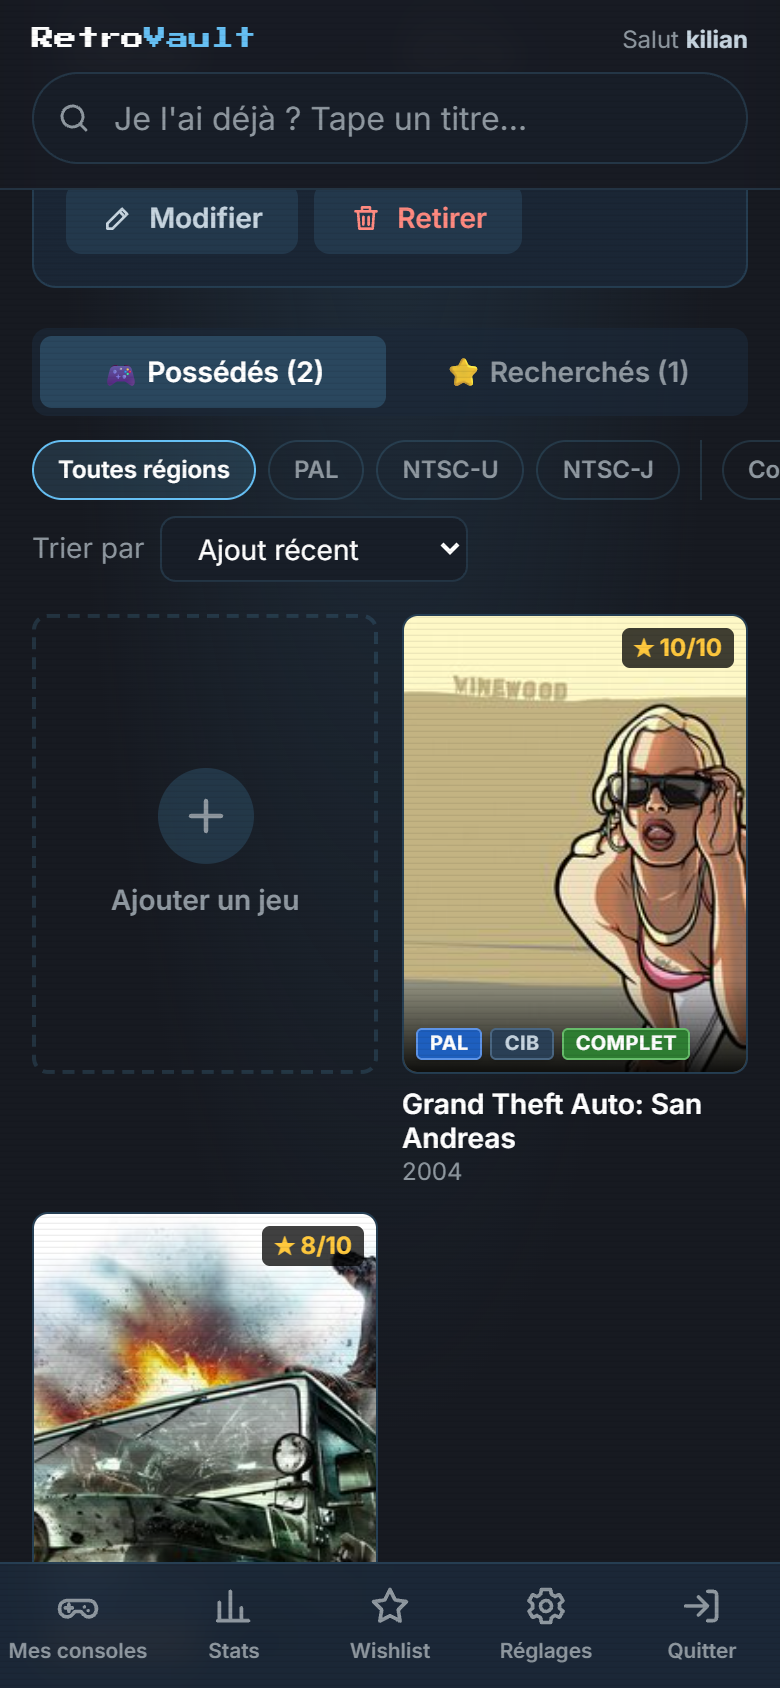
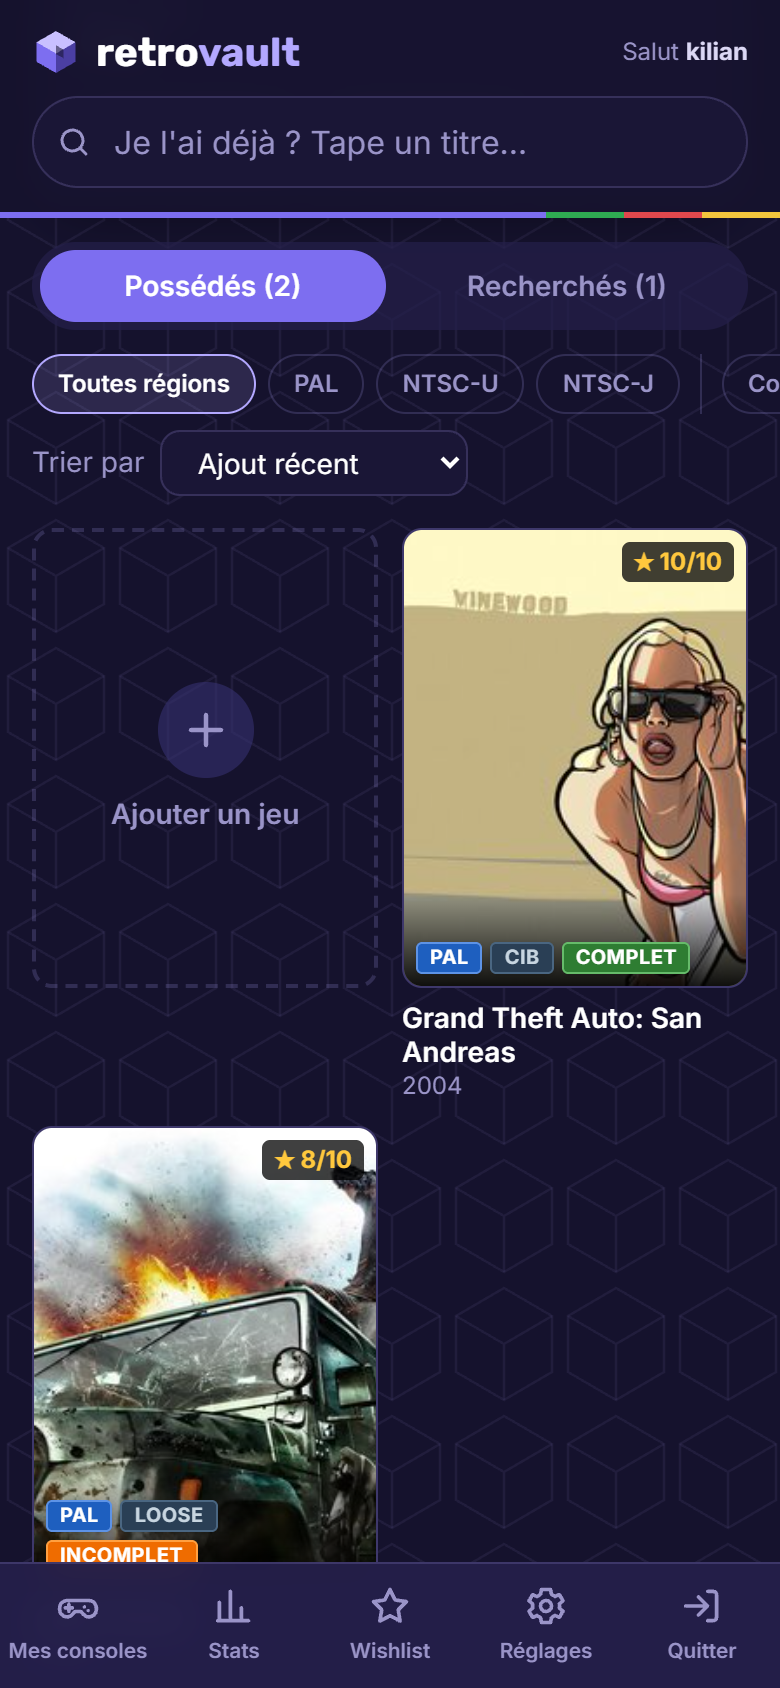
Mise en ligne sur GitHub Pages, README et captures à jour

diff --git a/vite.config.js b/vite.config.js
@@ -2,6 +2,8 @@ import { defineConfig } from 'vite'
 import react from '@vitejs/plugin-react'
 import tailwindcss from '@tailwindcss/vite'
 
+// Sur GitHub Pages le site est servi depuis /retrovault/ (variable passée par le workflow)
 export default defineConfig({
+  base: process.env.BASE_PATH ?? '/',
   plugins: [react(), tailwindcss()],
 })

diff --git a/src/main.jsx b/src/main.jsx
@@ -9,7 +9,7 @@ applyTheme(useSettings.getState().theme)
 
 createRoot(document.getElementById('root')).render(
   <StrictMode>
-    <BrowserRouter>
+    <BrowserRouter basename={import.meta.env.BASE_URL}>
       <App />
     </BrowserRouter>
   </StrictMode>,

diff --git a/README.md b/README.md
@@ -3,7 +3,13 @@
 Application web **React** pour gérer sa collection de consoles et de jeux vidéo, surtout rétro.
 On se connecte, on ajoute ses consoles (avec le modèle exact : PS2 Fat ou Slim, Game Boy DMG ou Pocket…), puis pour chaque console on cherche ses jeux dans la base **RAWG** et on note l'état de son exemplaire : région, en boîte ou loose, complet ou non, prix payé, note perso…
 
+**Version en ligne : https://vador634.github.io/retrovault/**
+
 Pensée **mobile d'abord** : une recherche « Je l'ai déjà ? » toujours visible permet de vérifier en magasin d'occasion qu'on n'achète pas un doublon.
+
+<p align="center">
+  <img src="Documentation/captures/00-themes-connexion.png" width="700" alt="Les 3 thèmes : GameCube, Xbox, PlayStation" />
+</p>
 
 <p align="center">
   <img src="Documentation/captures/04-mes-consoles.png" width="230" alt="Mes consoles" />
@@ -16,15 +22,17 @@ Pensée **mobile d'abord** : une recherche « Je l'ai déjà ? » toujours visib
 ## Fonctionnalités
 
 **Connexion**
-- Inscription / connexion par pseudo et mot de passe, écran de démarrage façon BIOS rétro.
+- Inscription / connexion par pseudo et mot de passe, choix du thème dès cet écran.
 - Toutes les pages sont protégées, bouton de déconnexion dans la barre de navigation.
 - Plusieurs comptes possibles sur le même appareil, chacun avec sa collection.
 
 **Mes consoles**
 - Grille de mes consoles avec une carte « + Ajouter une console ».
-- Ajout en 3 étapes : choix dans un catalogue de **25 consoles** → **modèle** → état, boîte, couleur/édition, commentaire.
+- Ajout en 3 étapes : choix dans un catalogue de **28 consoles** (de l'Atari 2600 à la PS4, la Xbox One, la Wii U et la Switch) → **modèle** → état, boîte, couleur/édition, commentaire.
 - Plusieurs exemplaires de la même console possibles (ex. une PS2 Fat et une Slim).
-- Chaque carte affiche l'image, le nom, le modèle et le nombre de jeux.
+- Chaque carte affiche la photo de la console, le nom, le modèle et le nombre de jeux.
+- **Ordre libre** : on range ses consoles comme on veut en les faisant glisser (souris, ou appui long au doigt). L'ordre est enregistré.
+- **Tris** : mon ordre, par marque (avec un titre par fabricant), plus anciennes / plus récentes, nombre de jeux, nom. Le tri choisi est mémorisé.
 
 **Jeux d'une console** (une seule page dynamique `/console/:id`)
 - En-tête avec le modèle, les caractéristiques techniques et le nombre de jeux.
@@ -38,7 +46,11 @@ Pensée **mobile d'abord** : une recherche « Je l'ai déjà ? » toujours visib
 - **« Je l'ai déjà ? »** : recherche instantanée dans ma collection, sans réseau, qui répond console, région, format et état, ou « ⭐ Dans ta wishlist ».
 - **Wishlist** : un jeu peut être « Recherché » au lieu de « Possédé ». Bouton « Je l'ai trouvé ! » pour le passer dans la collection.
 - **Statistiques** (Recharts) : jeux par console, répartition CIB / Loose / Blister, % de jeux complets, répartition par région, total dépensé, top des jeux les mieux notés.
-- **Réglages** : thème sombre / clair, effet CRT désactivable, note sur 5 ou 10.
+- **3 thèmes « console »**, chacun avec son propre logo, au choix dans les réglages ou dès l'écran de connexion :
+  - **GameCube** : logo en cube, indigo brillant, tout est arrondi, petits cubes en fond, bouton principal vert comme le bouton A ;
+  - **Xbox** : logo en sphère verte lumineuse, noir et vert lime, boutons à coins coupés, équerres vertes sur les panneaux, quadrillage en fond ;
+  - **PlayStation** : logo aux 4 symboles, gris clair comme le plastique de la console, boutons en relief qui s'enfoncent, rainures en fond, trait aux 4 couleurs sous les titres.
+- **Réglages** : thème, note sur 5 ou 10.
 - **Sauvegarde** : export et import de la collection en JSON.
 
 ## Stack technique
@@ -47,10 +59,11 @@ Pensée **mobile d'abord** : une recherche « Je l'ai déjà ? » toujours visib
 |---|---|
 | Interface | React 19 + Vite |
 | Navigation | React Router |
-| Style | Tailwind CSS 4, polices Press Start 2P (titres) et Inter (texte) |
+| Style | Tailwind CSS 4 + variables CSS pour les 3 thèmes ; Inter (texte), Rubik / Michroma / Saira (titres selon le thème) |
 | Animations | Framer Motion |
 | État + persistance | Zustand (middleware `persist` → localStorage) |
 | Graphiques | Recharts |
+| Glisser-déposer | dnd-kit (grille triable, souris + tactile + clavier) |
 | Données des jeux | [API RAWG](https://rawg.io/apidocs) |
 
 Pas de serveur : l'application est entièrement côté navigateur. Les comptes, la collection et les réglages sont enregistrés dans le `localStorage` de l'appareil.
@@ -84,9 +97,11 @@ Pas de serveur : l'application est entièrement côté navigateur. Les comptes, 
 npm run build     # génère le dossier dist/
 npm run preview   # sert dist/ sur http://localhost:4173
 ```
-Le dossier `dist/` est un site statique : il peut être déposé tel quel sur Netlify, GitHub Pages, Vercel…
+Le dossier `dist/` est un site statique.
 
-> Le mot de passe est chiffré avec l'API Web Crypto du navigateur, qui n'est disponible qu'en **https** ou sur **localhost**. Pour utiliser l'appli sur téléphone, le plus simple est donc de la déployer sur un hébergeur statique en https (Netlify par exemple).
+**Mise en ligne (GitHub Pages)** : le workflow `.github/workflows/deploy.yml` lance les tests, construit le site et le publie à chaque push sur `main`. La clé RAWG est lue depuis le secret `RAWG_KEY` du dépôt (*Settings → Secrets and variables → Actions*), elle n'est jamais dans le code.
+
+> Le mot de passe est chiffré avec l'API Web Crypto du navigateur, qui n'est disponible qu'en **https** ou sur **localhost**. Sur téléphone, il faut donc passer par la version en ligne (https) et pas par l'adresse IP du PC.
 
 **Tests** de la logique métier (badge complet, recherche sans accents, notes) :
 ```bash
@@ -101,8 +116,8 @@ npm test
 src/
 ├── main.jsx              Point d'entrée (thème appliqué avant le premier rendu)
 ├── App.jsx               Routes + protection des pages (RequireAuth)
-├── index.css             Thèmes sombre/clair (variables CSS), composants de base, effet CRT
-├── data/consoles.json    Catalogue des 25 consoles : modèles, specs, ID de plateforme RAWG
+├── index.css             Les 3 thèmes (GameCube, Xbox, PlayStation) en variables CSS + composants de base
+├── data/consoles.json    Catalogue des 28 consoles : modèles, specs, ID de plateforme RAWG
 ├── lib/
 │   ├── rawg.js           Appels à l'API RAWG + mise en cache
 │   ├── cache.js          Cache localStorage avec date d'expiration
@@ -112,10 +127,13 @@ src/
 ├── store/
 │   ├── auth.js           Comptes et utilisateur connecté
 │   ├── collection.js     Consoles et jeux de chaque compte (ajouter / modifier / supprimer)
-│   ├── settings.js       Thème, effet CRT, échelle de note
+│   ├── settings.js       Thème, échelle de note
 │   └── toast.js          Notifications
 ├── components/           Modal, formulaires, cartes, badges, recherche rapide…
 └── pages/                Login, Consoles, ConsoleGames, Stats, Wishlist, Settings, NotFound
+
+public/consoles/          Photos des 28 consoles (.webp) + credits.json (source et licence de chaque photo)
+.github/workflows/        Mise en ligne automatique sur GitHub Pages
 ```
 
 Le parcours d'un ajout : la page `ConsoleGames` ouvre `SearchGameModal` → `rawg.js` interroge `/games?platforms=15&search=…` → on choisit un résultat → `GameForm` → `ajouterJeu()` dans le store `collection` → Zustand enregistre dans le localStorage et toutes les pages se mettent à jour.
@@ -126,6 +144,7 @@ Le parcours d'un ajout : la page `ConsoleGames` ouvre `SearchGameModal` → `raw
 
 - Un **jeu** est rattaché à la console du **catalogue** (`consoleId: 'ps2'`) et pas à un exemplaire précis : si on a deux PS2, les jeux sont partagés entre les deux.
 - Retirer le dernier exemplaire d'une console retire aussi ses jeux (après confirmation).
+- L'ordre choisi à la main est simplement l'ordre du tableau `consoles` : glisser une carte réécrit ce tableau (`reordonnerConsoles()`). Les autres tris ne le modifient pas, ils trient une copie à l'affichage.
 - Les notes sont toujours stockées **sur 10** ; l'affichage sur 5 divise simplement par 2.
 - On ne garde de RAWG que ce qui sert à l'affichage de la grille (titre, image, date, genres). La fiche complète est rechargée à l'ouverture de la pop-up, avec un cache de 7 jours.
 
@@ -133,15 +152,17 @@ Le parcours d'un ajout : la page `ConsoleGames` ouvre `SearchGameModal` → `raw
 |---|---|
 | `retrovault-auth` | comptes (pseudo, sel, hash) + utilisateur connecté |
 | `retrovault-collection` | consoles et jeux, rangés par pseudo |
-| `retrovault-reglages` | thème, effet CRT, échelle de note |
+| `retrovault-reglages` | thème, échelle de note, tri de la page Mes consoles |
 | `rv-cache:*` | réponses RAWG mises en cache (genres, fiches de jeux) |
 
 ## Choix techniques
 
 - **RAWG plutôt qu'IGDB** : IGDB demande un échange de jetons OAuth avec un secret et refuse les appels directs depuis un navigateur (CORS). Il faudrait donc un serveur. RAWG s'utilise directement depuis le front avec une simple clé.
-- **ID de plateformes** : les 25 ID de `consoles.json` ont été vérifiés un par un avec l'endpoint `/platforms` de RAWG.
+- **ID de plateformes** : les 28 ID de `consoles.json` ont été vérifiés un par un avec l'endpoint `/platforms` de RAWG.
 - **Régions** : RAWG ne fournit pas les dates de sortie par région, la région est donc une information de **mon exemplaire** (et sert aux filtres et aux statistiques).
-- **Images des consoles** : aucune image protégée. Chaque console a une illustration générée en SVG avec sa couleur et son sigle. Pour utiliser ses propres photos, il suffit de les déposer dans `public/consoles/<id>.jpg` (ex. `ps2.jpg`) : elles sont prises en priorité.
+- **Photos des consoles** : photos d'Evan Amos sur Wikimedia Commons, libres de droits (voir Crédits). Elles ont été recadrées et converties en WebP (≈ 15 Ko chacune). Elles sont sur fond blanc : avec `mix-blend-mode: multiply`, le blanc se fond dans le dégradé de la carte, quel que soit le thème.
+- **Thèmes** : chaque thème ne fait que redéfinir des variables CSS (couleurs, arrondis, police des titres, motif de fond) sur `<html data-theme="...">`. Les composants n'utilisent que ces variables (`bg-panel`, `text-accent`, `rounded-lg`…), donc ajouter un thème = ajouter un bloc de variables. Les couleurs des graphiques ont été vérifiées pour le daltonisme sur le fond de chaque thème.
+- **Glisser-déposer** : avec dnd-kit, la souris doit bouger de 8 px avant que la carte parte (sinon un simple clic ne marcherait plus), et au doigt il faut un appui de 250 ms (sinon on ne pourrait plus faire défiler la page). Piège rencontré : en lâchant une carte, le navigateur envoie un clic sur son lien et ouvrait la console ; ce clic est annulé pendant le déplacement.
 - **Performance** : la page Statistiques (et Recharts) n'est chargée qu'à l'ouverture, les vignettes RAWG sont demandées redimensionnées, les recherches sont gardées en mémoire et annulées quand on tape plus vite que le réseau.
 
 ## Sécurité et limites
@@ -158,22 +179,34 @@ Limite assumée : sans serveur, les données sont propres à un navigateur. L'ex
 
 ## Captures
 
+![Les 3 thèmes sur la page Mes consoles](Documentation/captures/00-themes-consoles.png)
+
 | Connexion | Catalogue | Recherche RAWG | Options d'ajout |
 |---|---|---|---|
 | ![](Documentation/captures/01-connexion.png) | ![](Documentation/captures/03-catalogue.png) | ![](Documentation/captures/07-recherche-just-cause.png) | ![](Documentation/captures/08-options-ajout.png) |
 
-| « Je l'ai déjà ? » | Statistiques | Wishlist | Thème clair |
+| « Je l'ai déjà ? » | Statistiques | Thème Xbox | Thème PlayStation |
 |---|---|---|---|
-| ![](Documentation/captures/11-recherche-rapide-wishlist.png) | ![](Documentation/captures/13-stats.png) | ![](Documentation/captures/14-wishlist.png) | ![](Documentation/captures/16-consoles-clair.png) |
+| ![](Documentation/captures/11-recherche-rapide-wishlist.png) | ![](Documentation/captures/13-stats.png) | ![](Documentation/captures/16-consoles-xbox.png) | ![](Documentation/captures/17-consoles-playstation.png) |
 
 Version ordinateur :
 
 ![Page d'une console sur ordinateur](Documentation/captures/21-desktop-console.png)
 ![Statistiques sur ordinateur](Documentation/captures/23-desktop-stats.png)
+![Thème Xbox sur ordinateur](Documentation/captures/25-desktop-console-xbox.png)
+![Thème PlayStation sur ordinateur](Documentation/captures/25-desktop-console-ps1.png)
 
 ## Crédits
 
 Données et images des jeux : [RAWG.io](https://rawg.io).
+
+Photos des consoles, via Wikimedia Commons :
+- **Evan Amos** ([Vanamo Online Game Museum](https://commons.wikimedia.org/wiki/User:Evan-Amos)) pour 27 consoles : 24 photos dans le **domaine public**, celles de la Mega Drive, de la Dreamcast et de la Neo Geo sous licence **CC BY-SA 3.0** ;
+- **Takimata** (retouches Tokyoship) pour la Wii U, sous licence **CC BY-SA 3.0**.
+
+Le lien, l'auteur et la licence de chaque photo sont dans `public/consoles/credits.json`.
+
+Les noms et marques des consoles appartiennent à leurs propriétaires ; les thèmes s'en inspirent librement, sans logo officiel.
 
 ## Auteur
 
